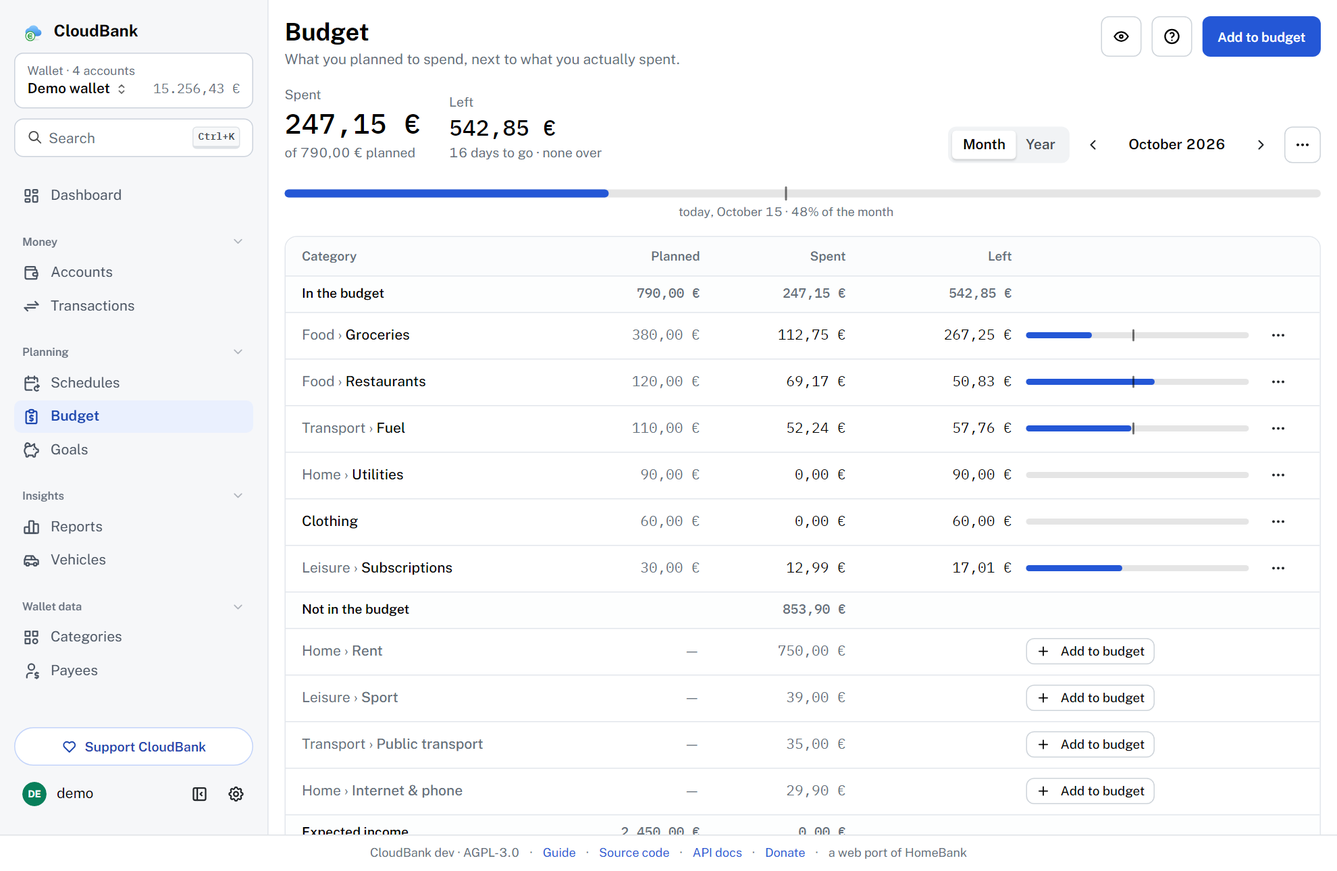
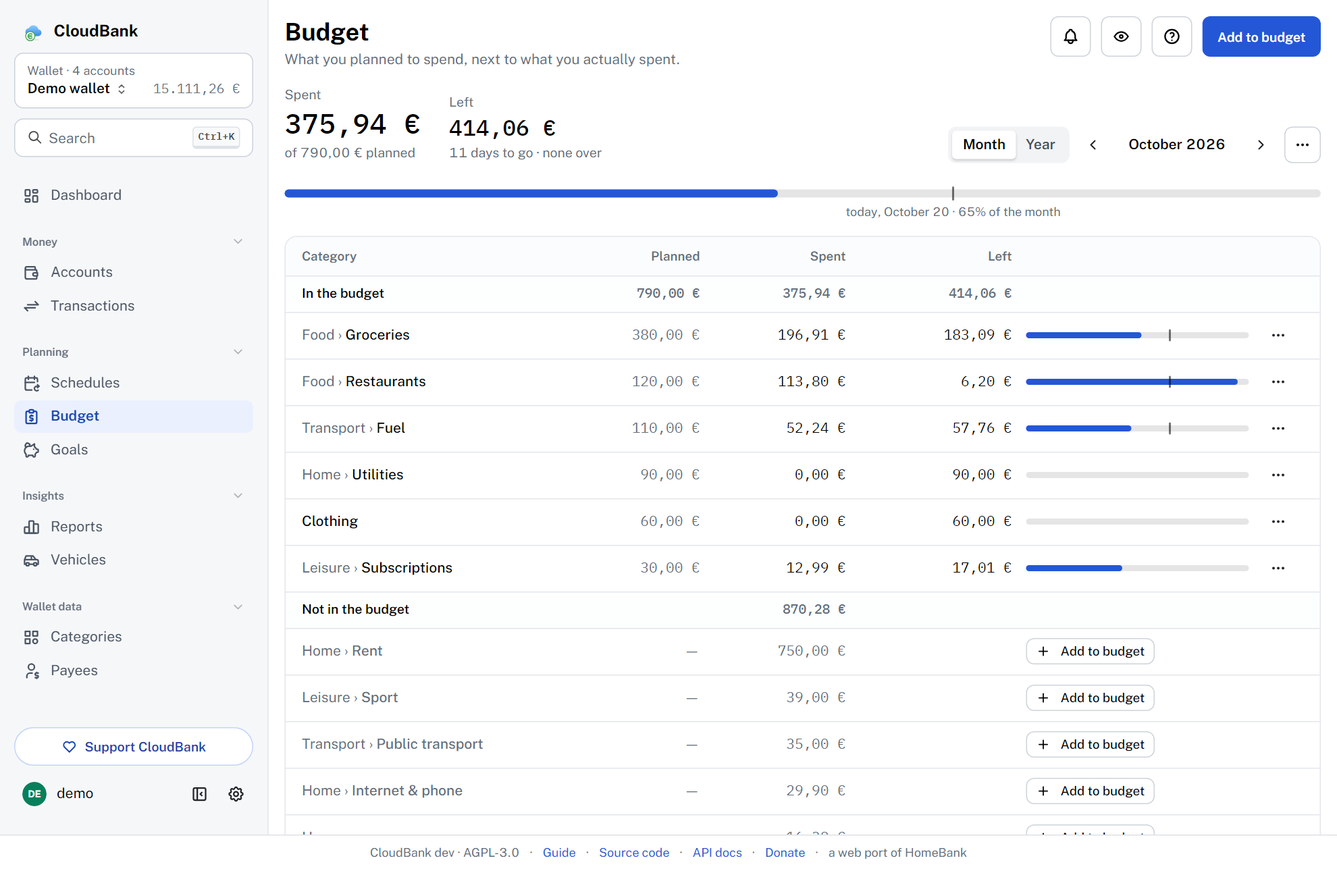
chore(release): 3.10.0
The CHANGELOG section for 3.10.0, covering everything merged since v3.9.0:
the bell and Settings › Notifications with push, email, Matrix, Telegram,
Discord, Slack, ntfy, Gotify and the webhook; the security, problem, money,
summary and admin events; the daily digest, quiet hours and thresholds; the
Schedules page's found payments, yearly costs and calendar address; the
payee schedules now need; and pages refreshing what changed elsewhere.

The READMEs gain a notifications line and the schedules' new tricks in all
six languages; the guides index links the calendar section. The README
screenshots are retaken from the demo's data, with the bell in every header
and Add to calendar on the Schedules calendar.

Part of #695

diff --git a/README.md b/README.md
@@ -86,12 +86,12 @@ CloudBank is an **independent, clean-room reimplementation**. It does not copy o
 - **Transactions** with 12 payment types, the cleared/reconciled status lifecycle, category splits, free tags, internal transfers (including cross-currency), a right-click context menu, and multi-selection **bulk actions** — set category / payee / payment mode / status / **tags** (add or replace) or **delete** across many rows at once, with **shift-click** range selection — plus duplicate detection.
 - **Register** view with running balance, rich filtering (including a show/hide **future transactions** toggle), columns you can show, hide, resize and **reorder**, a **selection total** (net + income/expense split of the currently selected rows), a reconciliation workflow that marks where the reconciled rows sit when a status filter hides them, double-click-to-edit, and **full-text search** across memo, payee, category and info.
 - **Entering a transaction** happens in a sheet beside the ledger, so the rows and the running balance stay in view. You choose which fields it shows and which wait under **More details**, and **Save and keep** carries the fields over to the next entry.
-- **Scheduled transactions** with automatic posting (optionally **pre-registering up to 3 months ahead**, HomeBank style), a **per-week/month/year income & expense summary**, the recurring **amount** shown in the schedules grid, **templates** (a dedicated management area, and offered when entering a transaction), and **assignment rules** for auto-categorization.
+- **Scheduled transactions** with automatic posting (optionally **pre-registering up to 3 months ahead**, HomeBank style), a **per-week/month/year income & expense summary**, the recurring **amount** shown in the schedules grid, **templates** (a dedicated management area, and offered when entering a transaction), and **assignment rules** for auto-categorization. Every schedule but a transfer names its **payee**, and **Found in your transactions** offers the payments that come round with no schedule yet (same payee, similar amount, weekly to yearly), each with what it costs in a year.
 - **Budgets** and **reports** that answer first: where the money went, what came in and went out, what your accounts hold and will hold with what is scheduled, and what a car costs — for any month, quarter or year, with saved views and CSV/PNG downloads.
 - **Savings goals** — what you have set aside, what to put aside each month to meet every date, and what is free to spend once it is set aside; put money in or take it out, and close a goal, reached or given up on, into a history you can reopen (included in wallet backup/restore).
 - **Vehicles** — what each car, motorbike or van costs to run over the last year: fuel, kilometres, cost per kilometre and consumption, from the fuel payments linked to it (HomeBank's `d=` / `v=` memo readings), with a fill-by-fill report.
 - **The wallet's lists** — categories, payees, tags, rules, templates and currencies each get a page of their own: what every entry did over the last 12 months (amounts, counts, the category a payee usually gets, how many transactions a rule matches today) and a panel beside the list to edit it, with merge and delete where they make sense.
-- **A calendar of what comes round** — the month's bills and income on the day each falls, marked **not registered**, **registered**, **cleared**, **reconciled** or **overdue** (occurrences registered months ahead land in their own month), with what is still to pay, a **Needs you** column to register or skip in one click, and a sheet to change a bill's amount before registering it. A registered one opens the register on its row, to reconcile it.
+- **A calendar of what comes round** — the month's bills and income on the day each falls, marked **not registered**, **registered**, **cleared**, **reconciled** or **overdue** (occurrences registered months ahead land in their own month), with what is still to pay, a **Needs you** column to register or skip in one click, and a sheet to change a bill's amount before registering it. A registered one opens the register on its row, to reconcile it. **Add to calendar** puts the due dates in your phone's calendar app at a private, revocable address — names and amounts, never a balance.
 - **Import**: HomeBank `.xhb`, QIF, OFX/QFX, CSV, **ISO 20022 CAMT.053** — with an import assistant ([how to import](docs/import.md)). **Export**: HomeBank `.xhb`, QIF, CSV.
 - **Automatic bank sync** — pull new transactions straight from your bank, run through your assignment rules and **reconciled against what you already have**: a bank row that matches an existing manual or scheduled transaction (amount + nearby date) is **merged** into it instead of duplicated, imported with the right status (booked → reconciled, pending → cleared) and a sensible default payment mode. Three providers, all **bring-your-own-credentials** so CloudBank never sees your bank login: **[SimpleFIN](https://www.simplefin.org/)** (worldwide; a ~$15/year SimpleFIN Bridge subscription) and **[Enable Banking](https://enablebanking.com/)** (EU/EEA + UK via PSD2 — a free sandbox to test, your own production application for real accounts). Plus **[Pluggy](https://pluggy.ai/)** (Latin America — free for personal use via [Meu Pluggy](https://meu.pluggy.ai), where you link the banks and CloudBank just reads them). **Pluggy is experimental and needs real-world testing** — it follows the published API but has not been run against a live Latin American bank by the maintainers, so if you use it, please [open an issue](https://github.com/easly1989/cloudbank/issues/new) with anything that looks wrong, however small. A **personal (restricted)** Enable Banking production app can only sync accounts you **link** to it in its panel — the [bank-sync guide](docs/bank-sync.md) walks through it.
 - **Bank mails** — CloudBank reads your bank's payment notifications from one folder of a mailbox: Outlook.com, Hotmail or Live by signing in to Microsoft, any other over IMAP with an app password. A **pattern** you make by highlighting a real mail turns each one into a cleared transaction, or the **AI** reads it, with card numbers and IBANs hidden first. Bank sync merges its own row into it rather than duplicating it, and Review asks about the ones the bank never booked. Read-only, listening as mails arrive, and only from senders the mail server authenticated ([the guide](docs/bank-mails.md)).
@@ -116,7 +116,7 @@ CloudBank is an **independent, clean-room reimplementation**. It does not copy o
 - **Two-factor authentication (TOTP)** — optional per-user 2FA with authenticator apps (QR enrolment + one-time recovery codes) and a two-step login.
 - **Personal API tokens** — scoped, revocable bearer tokens for programmatic access.
 - **Installable PWA** — a web-app manifest, icons and an offline app shell, so CloudBank installs to your phone's home screen or your desktop.
-- **Web push notifications** — opt-in browser push for schedule / bill due reminders.
+- **Notifications where you will see them** — a bell on every page, plus push, email, **Matrix**, **Telegram**, **Discord**, **Slack**, **ntfy**, **Gotify** or a signed **webhook** (Home Assistant included). Choose which events reach which channel — bills, security, problems such as a failing bank sync, money (large expenses, low balances, budgets, goals), weekly and monthly summaries — and when: at once, in a daily digest, or after your quiet hours ([the guide](docs/notifications.md)).
 - **Encrypted secrets at rest** — set `CB_SECRET_KEY` to encrypt bank credentials, AI keys, mailbox sign-ins and other secrets in the database (see [Configuration](#configuration)).
 - **Told when to update** — an open page offers a new build of the app instead of swapping it in under you, and admins are told when a newer CloudBank is published, with the steps to update ([turn it off](docs/backup.md#upgrading) if you prefer).
 

diff --git a/CHANGELOG.md b/CHANGELOG.md
@@ -6,6 +6,91 @@ All notable changes to CloudBank are documented here. The format is based on
 
 ## [Unreleased]
 
+## [3.10.0] — 2026-10-20
+
+CloudBank can now tell you things where you will see them: in a bell on every
+page, and by push, email, Matrix, Telegram, Discord, Slack, ntfy, Gotify or a
+webhook into Home Assistant. You choose which events go where and when. The
+Schedules page finds the payments that come round with no schedule, shows what
+each costs in a year, and puts the due dates in your phone's calendar.
+
+### Added
+
+- **The bell.** The first button of every page header (in the top bar on a
+  phone) lists what CloudBank has to tell you, grouped by Today, This week and
+  Earlier, with unread ones counted on it. A click opens the page it is about,
+  switching wallet if needed, and **Mark all as read** clears it.
+- **Settings › Notifications.** An overview of every channel with its state and
+  how many events it gets, and a page per channel: how to connect it, and which
+  events arrive there. Push moved here from Security.
+  - **Push** on this device, as before.
+  - **Email** through the installation's mail server (`CB_SMTP_*`), once you
+    type back a code mailed to the address.
+  - **Matrix**, to a room, with the installation's shared bot
+    (`CB_MATRIX_HOMESERVER`, `CB_MATRIX_TOKEN`) or your own.
+  - **Telegram**, from the installation's shared bot (`CB_TELEGRAM_TOKEN`,
+    linked with one tap on **Connect your chat**) or your own, with an optional
+    topic and silent sending.
+  - **Discord** and **Slack**, through a channel's incoming webhook.
+  - **ntfy**, on `ntfy.sh` or your own server, and **Gotify**.
+  - **A webhook**: a JSON `POST`, signed when you set a secret. The guide has
+    the Home Assistant automation that takes it.
+
+  **Send a test** checks each one, and its page shows the last delivery or the
+  last error. A channel that cannot be reached is retried for several hours,
+  even across a restart. Tokens and webhook addresses are stored encrypted and
+  never shown again; one on your local network needs an administrator.
+- **Events.**
+  - **Bills** due, for every member of the wallet.
+  - **Security**: a sign-in from a new device, two-factor sign-in turned off,
+    a new API token. These always reach the bell.
+  - **Problems**: a bank sync that fails, a bank consent about to end, a
+    mailbox that stopped reading, a bank mail nothing could read, and
+    transactions waiting on Review longer than you chose (3 days by default).
+  - **Money** (off until you turn it on): a large expense you did not type
+    yourself, a balance under the account's threshold, a budget at 80% and
+    100%, a goal reached or falling behind.
+  - **Summaries** (off until you turn it on): a weekly and a monthly one, with
+    money in and out, the period before, the top categories and the week's
+    bills.
+  - **Administration**: a new CloudBank version, for administrators.
+- **Timing.** Each event goes out at once or in a **daily digest** at the hour
+  you pick. **Quiet hours** hold push, email and chat overnight, except
+  problems and security. **Thresholds and wallets** sets the per-account
+  amounts, which wallets you hear from, and whether amounts appear outside
+  the app. The bell is always immediate.
+- **[The notifications guide](docs/notifications.md)**: every channel step by
+  step, Home Assistant, and what an administrator sets up.
+- **Found in your transactions.** The Schedules page offers the payments that
+  come round with no schedule: the same payee, a similar amount, every week,
+  month, three months or year, still going. **Create schedule** opens the sheet
+  filled in from it; **Ignore** stops offering it.
+- **What schedules cost in a year.** The list's figures lead with what goes out
+  and comes in over twelve months, and each schedule shows its yearly total
+  under its amount.
+- **Add to calendar.** In the Schedules calendar view, a private address for
+  your phone's calendar app (iPhone, Google Calendar, Outlook): every due date
+  on its day with its name and amount, never a balance. It can be regenerated
+  or turned off, and the same calendar downloads as a `.ics` file.
+- Ten migrations run at startup, for notifications, their channels, deliveries
+  and timing, known devices, where a transaction came from, ignored recurring
+  payments and calendar addresses.
+
+### Changed
+
+- **A schedule needs a payee**, except a transfer. The payee sits under the
+  amount in the sheet. Schedules saved without one, such as imported ones,
+  still post: a banner counts them and **Complete them one by one** opens each
+  in turn, and a new payee can also go to the transactions they registered
+  without one.
+
+### Fixed
+
+- **Pages pick up what changed elsewhere.** A transaction from bank sync, a
+  bank mail, a scheduled posting or another device showed only after a reload.
+  Pages now refresh when you come back to the tab and every 30 seconds while
+  it is visible.
+
 ## [3.9.0] — 2026-10-17
 
 Bank mails read any mailbox now: Gmail, Libero, iCloud and the others over IMAP

diff --git a/README.fr.md b/README.fr.md
@@ -67,7 +67,7 @@ CloudBank est une **réimplémentation indépendante, en salle blanche**. Il ne 
 ## Fonctions
 
 - **Comptes et opérations :** tous les types de compte de HomeBank, chacun dans sa devise, avec le solde actuel et le solde prévisionnel. Les opérations se marquent pointées et rapprochées, avec ventilations, étiquettes et virements ; la liste des opérations a des filtres, des colonnes au choix, des actions sur plusieurs lignes, la recherche et le rapprochement avec le relevé.
-- **Opérations récurrentes et calendrier :** ce qui revient régulièrement se saisit tout seul, jusqu’à trois mois à l’avance si vous voulez. Un calendrier montre les échéances du mois avec leur état, ce qui reste à payer et ce qui vous attend ; les modèles et les règles d’affectation remplissent le reste.
+- **Opérations récurrentes et calendrier :** ce qui revient régulièrement se saisit tout seul, jusqu’à trois mois à l’avance si vous voulez. Un calendrier montre les échéances du mois avec leur état, ce qui reste à payer et ce qui vous attend ; les modèles et les règles d’affectation remplissent le reste. CloudBank trouve aussi les paiements qui reviennent sans opération récurrente, montre ce que chacune coûte sur un an et met les échéances dans le calendrier du téléphone.
 - **Budget et rapports :** où est allé l’argent, ce qui est entré et sorti, ce que les comptes contiennent et contiendront, ce que coûte une voiture ; par mois, trimestre ou année, avec des vues enregistrées et des téléchargements en CSV et PNG.
 - **Objectifs d’épargne et véhicules :** combien vous avez mis de côté, combien mettre de côté chaque mois pour arriver à temps, et ce qui reste disponible ; pour chaque véhicule, le carburant, les kilomètres, le coût au kilomètre et la consommation.
 - **Import et export :** `.xhb` de HomeBank, QIF, OFX/QFX, CSV et CAMT.053 (ISO 20022) en entrée, avec un assistant ; `.xhb`, QIF et CSV en sortie ; sauvegarde et restauration du classeur.
@@ -77,6 +77,7 @@ CloudBank est une **réimplémentation indépendante, en salle blanche**. Il ne 
 - **Une vue d’ensemble sur mesure :** en haut, ce qui vous attend, en dessous des widgets que vous placez et redimensionnez comme vous voulez, thème clair et sombre dans votre couleur préférée, barre latérale et navigation à réorganiser.
 - **Sécurité :** authentification à deux facteurs, connexion par SSO (OIDC), jetons d’API révocables et secrets chiffrés dans la base de données.
 - **Application installable :** CloudBank s’installe sur téléphone ou ordinateur comme une application, avec des notifications push pour les échéances, et signale quand une nouvelle version est disponible.
+- **Des notifications là où vous les voyez :** une cloche sur chaque page et, au choix, push, e-mail, Matrix, Telegram, Discord, Slack, ntfy, Gotify ou un webhook pour Home Assistant. Vous choisissez quels événements arrivent où (échéances, sécurité, problèmes, argent, résumés) et quand, avec un résumé quotidien et des heures de silence ([le guide](docs/notifications.md)).
 - **IA facultative, avec votre propre clé :** suggestions de catégorie et opérations dictées avec vos mots (« café 3,50 hier »).
 
 ## Démarrage rapide

diff --git a/README.de.md b/README.de.md
@@ -67,7 +67,7 @@ CloudBank ist eine **unabhängige Clean-Room-Neuimplementierung**. Es kopiert od
 ## Funktionen
 
 - **Konten und Buchungen:** alle Kontoarten von HomeBank, jedes in seiner Währung, mit dem Kontostand von heute und dem künftigen. Buchungen werden als bestätigt und abgeglichen markiert, mit Teilbeträgen, Tags und Umbuchungen; die Buchungsliste hat Filter, wählbare Spalten, Aktionen für mehrere Zeilen, die Suche und den Abgleich mit dem Kontoauszug.
-- **Wiederkehrende Buchungen und Kalender:** Was regelmäßig wiederkommt, erfasst sich selbst, auf Wunsch bis zu drei Monate im Voraus. Ein Kalender zeigt die Fälligkeiten des Monats mit ihrem Status, was noch zu zahlen ist und was auf dich wartet; Vorlagen und Zuordnungsregeln füllen den Rest aus.
+- **Wiederkehrende Buchungen und Kalender:** Was regelmäßig wiederkommt, erfasst sich selbst, auf Wunsch bis zu drei Monate im Voraus. Ein Kalender zeigt die Fälligkeiten des Monats mit ihrem Status, was noch zu zahlen ist und was auf dich wartet; Vorlagen und Zuordnungsregeln füllen den Rest aus. CloudBank findet auch Zahlungen, die sich ohne wiederkehrende Buchung wiederholen, zeigt, was jede im Jahr kostet, und trägt die Fälligkeiten in den Kalender deines Handys ein.
 - **Budget und Berichte:** wohin das Geld ging, was herein- und hinausging, was die Konten haben und haben werden, was ein Auto kostet; nach Monat, Quartal oder Jahr, mit gespeicherten Ansichten und Downloads als CSV und PNG.
 - **Sparziele und Fahrzeuge:** wie viel du zurückgelegt hast, wie viel du jeden Monat zurücklegen musst, um rechtzeitig ans Ziel zu kommen, und wie viel frei bleibt; für jedes Fahrzeug Kraftstoff, Kilometer, Kosten pro Kilometer und Verbrauch.
 - **Import und Export:** HomeBank-`.xhb`, QIF, OFX/QFX, CSV und CAMT.053 (ISO 20022) herein, mit einem Assistenten; `.xhb`, QIF und CSV hinaus; Sicherung und Wiederherstellung des Haushaltsbuchs.
@@ -77,6 +77,7 @@ CloudBank ist eine **unabhängige Clean-Room-Neuimplementierung**. Es kopiert od
 - **Eine Übersicht nach Maß:** oben, was auf dich wartet, darunter Widgets, die du platzierst und in der Größe änderst, wie du willst, helles und dunkles Design in deiner Lieblingsfarbe, Seitenleiste und Navigation zum Umsortieren.
 - **Sicherheit:** Zwei-Faktor-Authentifizierung, Anmeldung per SSO (OIDC), widerrufbare API-Tokens und verschlüsselte Geheimnisse in der Datenbank.
 - **Installierbare App:** CloudBank lässt sich auf Handy oder Computer wie eine App installieren, mit Push-Benachrichtigungen zu Fälligkeiten, und meldet, wenn eine neue Version da ist.
+- **Benachrichtigungen, wo du sie siehst:** eine Glocke auf jeder Seite und nach Wahl Push, E-Mail, Matrix, Telegram, Discord, Slack, ntfy, Gotify oder ein Webhook für Home Assistant. Du wählst, welche Ereignisse wohin gehen (Fälligkeiten, Sicherheit, Probleme, Geld, Zusammenfassungen) und wann, mit einer täglichen Zusammenfassung und Ruhezeiten ([die Anleitung](docs/notifications.md)).
 - **Optionale KI, mit deinem eigenen Schlüssel:** Kategorievorschläge und Buchungen in eigenen Worten („Kaffee 3,50 gestern“).
 
 ## Schnellstart

diff --git a/README.es.md b/README.es.md
@@ -67,7 +67,7 @@ CloudBank es una **reimplementación independiente, en sala limpia**. No copia n
 ## Funciones
 
 - **Cuentas y movimientos:** todos los tipos de cuenta de HomeBank, cada una en su moneda, con el saldo actual y el previsto. Los movimientos se marcan como verificados y conciliados, con divisiones, etiquetas y transferencias; la lista de movimientos tiene filtros, columnas a elegir, acciones sobre varias filas, búsqueda y conciliación con el extracto.
-- **Movimientos programados y calendario:** lo que se repite se registra solo, hasta tres meses antes si quieres. Un calendario muestra los vencimientos del mes con su estado, lo que queda por pagar y lo que te espera; las plantillas y las reglas de asignación rellenan el resto.
+- **Movimientos programados y calendario:** lo que se repite se registra solo, hasta tres meses antes si quieres. Un calendario muestra los vencimientos del mes con su estado, lo que queda por pagar y lo que te espera; las plantillas y las reglas de asignación rellenan el resto. CloudBank también encuentra los pagos que se repiten sin un movimiento programado, muestra cuánto cuesta cada uno en un año y pone los vencimientos en el calendario del móvil.
 - **Presupuesto e informes:** adónde fue el dinero, qué entró y qué salió, qué tienen y tendrán las cuentas, cuánto cuesta un coche; por mes, trimestre o año, con vistas guardadas y descargas en CSV y PNG.
 - **Metas de ahorro y vehículos:** cuánto has reservado, cuánto reservar cada mes para llegar a tiempo, y cuánto queda disponible; para cada vehículo, el combustible, los kilómetros, el coste por kilómetro y el consumo.
 - **Importar y exportar:** `.xhb` de HomeBank, QIF, OFX/QFX, CSV y CAMT.053 (ISO 20022) de entrada, con un asistente; `.xhb`, QIF y CSV de salida; copia de seguridad y restauración de la cartera.
@@ -77,6 +77,7 @@ CloudBank es una **reimplementación independiente, en sala limpia**. No copia n
 - **Un resumen a tu medida:** arriba, lo que te espera; debajo, widgets que colocas y redimensionas como quieras, tema claro y oscuro en tu color favorito, barra lateral y navegación que puedes reordenar.
 - **Seguridad:** autenticación en dos pasos, inicio de sesión con SSO (OIDC), tokens de API revocables y secretos cifrados en la base de datos.
 - **App instalable:** CloudBank se instala en el móvil o el ordenador como una app, con notificaciones push de los vencimientos, y avisa cuando hay una versión nueva.
+- **Notificaciones donde las ves:** una campana en cada página y, si quieres, push, correo, Matrix, Telegram, Discord, Slack, ntfy, Gotify o un webhook para Home Assistant. Eliges qué eventos llegan adónde (vencimientos, seguridad, problemas, dinero, resúmenes) y cuándo, con un resumen diario y horas de silencio ([la guía](docs/notifications.md)).
 - **IA opcional, con tu propia clave:** sugerencias de categoría y movimientos escritos con tus palabras («café 3,50 ayer»).
 
 ## Inicio rápido

diff --git a/README.pt-BR.md b/README.pt-BR.md
@@ -67,7 +67,7 @@ O CloudBank é uma **reimplementação independente, em sala limpa**. Ele não c
 ## Recursos
 
 - **Contas e lançamentos:** todos os tipos de conta do HomeBank, cada uma na sua moeda, com o saldo atual e o previsto. Os lançamentos são marcados como conferidos e conciliados, com divisões, tags e transferências; a lista de lançamentos tem filtros, colunas à escolha, ações sobre várias linhas, pesquisa e conciliação com o extrato.
-- **Agendamentos e calendário:** o que se repete se registra sozinho, até três meses antes se você quiser. Um calendário mostra os vencimentos do mês com o status, o que falta pagar e o que vem pela frente; os modelos e as regras de classificação preenchem o resto.
+- **Agendamentos e calendário:** o que se repete se registra sozinho, até três meses antes se você quiser. Um calendário mostra os vencimentos do mês com o status, o que falta pagar e o que vem pela frente; os modelos e as regras de classificação preenchem o resto. O CloudBank também encontra os pagamentos que se repetem sem um agendamento, mostra quanto cada um custa em um ano e coloca os vencimentos no calendário do celular.
 - **Orçamento e relatórios:** para onde foi o dinheiro, o que entrou e o que saiu, o que as contas têm e terão, quanto custa um carro; por mês, trimestre ou ano, com visões salvas e downloads em CSV e PNG.
 - **Metas de economia e veículos:** quanto você guardou, quanto guardar por mês para chegar a tempo, e quanto sobra livre; para cada veículo, o combustível, os quilômetros, o custo por quilômetro e o consumo.
 - **Importar e exportar:** `.xhb` do HomeBank, QIF, OFX/QFX, CSV e CAMT.053 (ISO 20022) na entrada, com um assistente; `.xhb`, QIF e CSV na saída; backup e restauração da carteira.
@@ -77,6 +77,7 @@ O CloudBank é uma **reimplementação independente, em sala limpa**. Ele não c
 - **Uma visão geral do seu jeito:** em cima, o que vem pela frente; embaixo, widgets que você posiciona e redimensiona como quiser, tema claro e escuro na sua cor preferida, barra lateral e navegação que você pode reordenar.
 - **Segurança:** autenticação em dois fatores, login com SSO (OIDC), tokens de API revogáveis e segredos criptografados no banco de dados.
 - **App instalável:** o CloudBank se instala no celular ou no computador como um app, com notificações push dos vencimentos, e avisa quando há uma versão nova.
+- **Notificações onde você as vê:** um sino em cada página e, se quiser, push, e-mail, Matrix, Telegram, Discord, Slack, ntfy, Gotify ou um webhook para o Home Assistant. Você escolhe quais eventos chegam aonde (vencimentos, segurança, problemas, dinheiro, resumos) e quando, com um resumo diário e horas de silêncio ([o guia](docs/notifications.md)).
 - **IA opcional, com a sua própria chave:** sugestões de categoria e lançamentos escritos com as suas palavras (“café 3,50 ontem”).
 
 ## Início rápido

diff --git a/README.it.md b/README.it.md
@@ -67,7 +67,7 @@ CloudBank è una **reimplementazione indipendente, clean-room**. Non copia né u
 ## Funzioni
 
 - **Conti e registro:** tutti i tipi di conto di HomeBank, ognuno nella sua valuta, con il saldo di oggi e quello futuro. Le transazioni si segnano verificate e riconciliate, con suddivisioni, tag e giroconti; il registro ha filtri, colonne a scelta, azioni su più righe, la ricerca e la riconciliazione con l'estratto conto.
-- **Programmate e calendario:** le transazioni che tornano si registrano da sole, anche fino a tre mesi prima. Un calendario mostra le scadenze del mese con il loro stato, cosa resta da pagare e cosa aspetta te; modelli e regole di assegnazione compilano il resto.
+- **Programmate e calendario:** le transazioni che tornano si registrano da sole, anche fino a tre mesi prima. Un calendario mostra le scadenze del mese con il loro stato, cosa resta da pagare e cosa aspetta te; modelli e regole di assegnazione compilano il resto. CloudBank trova anche i pagamenti che si ripetono senza una programmata, mostra quanto costa ognuna in un anno e mette le scadenze nel calendario del telefono.
 - **Budget e report:** dove sono finiti i soldi, cosa è entrato e uscito, cosa hanno e avranno i conti, quanto costa un'auto; per mese, trimestre o anno, con viste salvate e download CSV e PNG.
 - **Obiettivi e veicoli:** quanto hai messo da parte, quanto mettere ogni mese per arrivare in tempo e quanto resta libero; per ogni veicolo carburante, chilometri, costo al chilometro e consumi.
 - **Import ed export:** `.xhb` di HomeBank, QIF, OFX/QFX, CSV e CAMT.053 (ISO 20022) in entrata, con un assistente; `.xhb`, QIF e CSV in uscita; backup e ripristino del portafoglio.
@@ -77,6 +77,7 @@ CloudBank è una **reimplementazione indipendente, clean-room**. Non copia né u
 - **Un cruscotto su misura:** in cima ciò che aspetta te, poi widget da mettere e ridimensionare dove vuoi, temi chiaro e scuro con il colore che preferisci, barra laterale e navigazione da riordinare.
 - **Sicurezza:** autenticazione a due fattori, accesso con SSO (OIDC), token API revocabili e segreti cifrati nel database.
 - **App installabile:** CloudBank si installa sul telefono o sul computer come un'app, con le notifiche push delle scadenze, e avvisa quando c'è una versione nuova.
+- **Notifiche dove le vedi:** una campanella su ogni pagina, e a scelta push, email, Matrix, Telegram, Discord, Slack, ntfy, Gotify o un webhook per Home Assistant. Scegli quali eventi arrivano dove (scadenze, sicurezza, problemi, soldi, riepiloghi) e quando, con un riepilogo giornaliero e le ore di silenzio ([la guida](docs/notifications.md)).
 - **IA facoltativa, con la tua chiave:** suggerimenti di categoria e transazioni scritte a parole («caffè 3,50 ieri»).
 
 ## Avvio rapido

diff --git a/docs/README.md b/docs/README.md
@@ -25,6 +25,8 @@ pull request: an edit made in the wiki is overwritten.
   and what happens when the bank's own row arrives.
 - [Notifications](notifications.md): the bell, push, email, Matrix, Telegram, Discord, Slack, ntfy, Gotify and webhooks; which
   events go where, and connecting Home Assistant.
+- [Schedules in your phone's calendar](pages.md#schedules): **Add to calendar**
+  and how to subscribe on an iPhone, in Google Calendar or in Outlook.
 
 ## Running CloudBank
 
